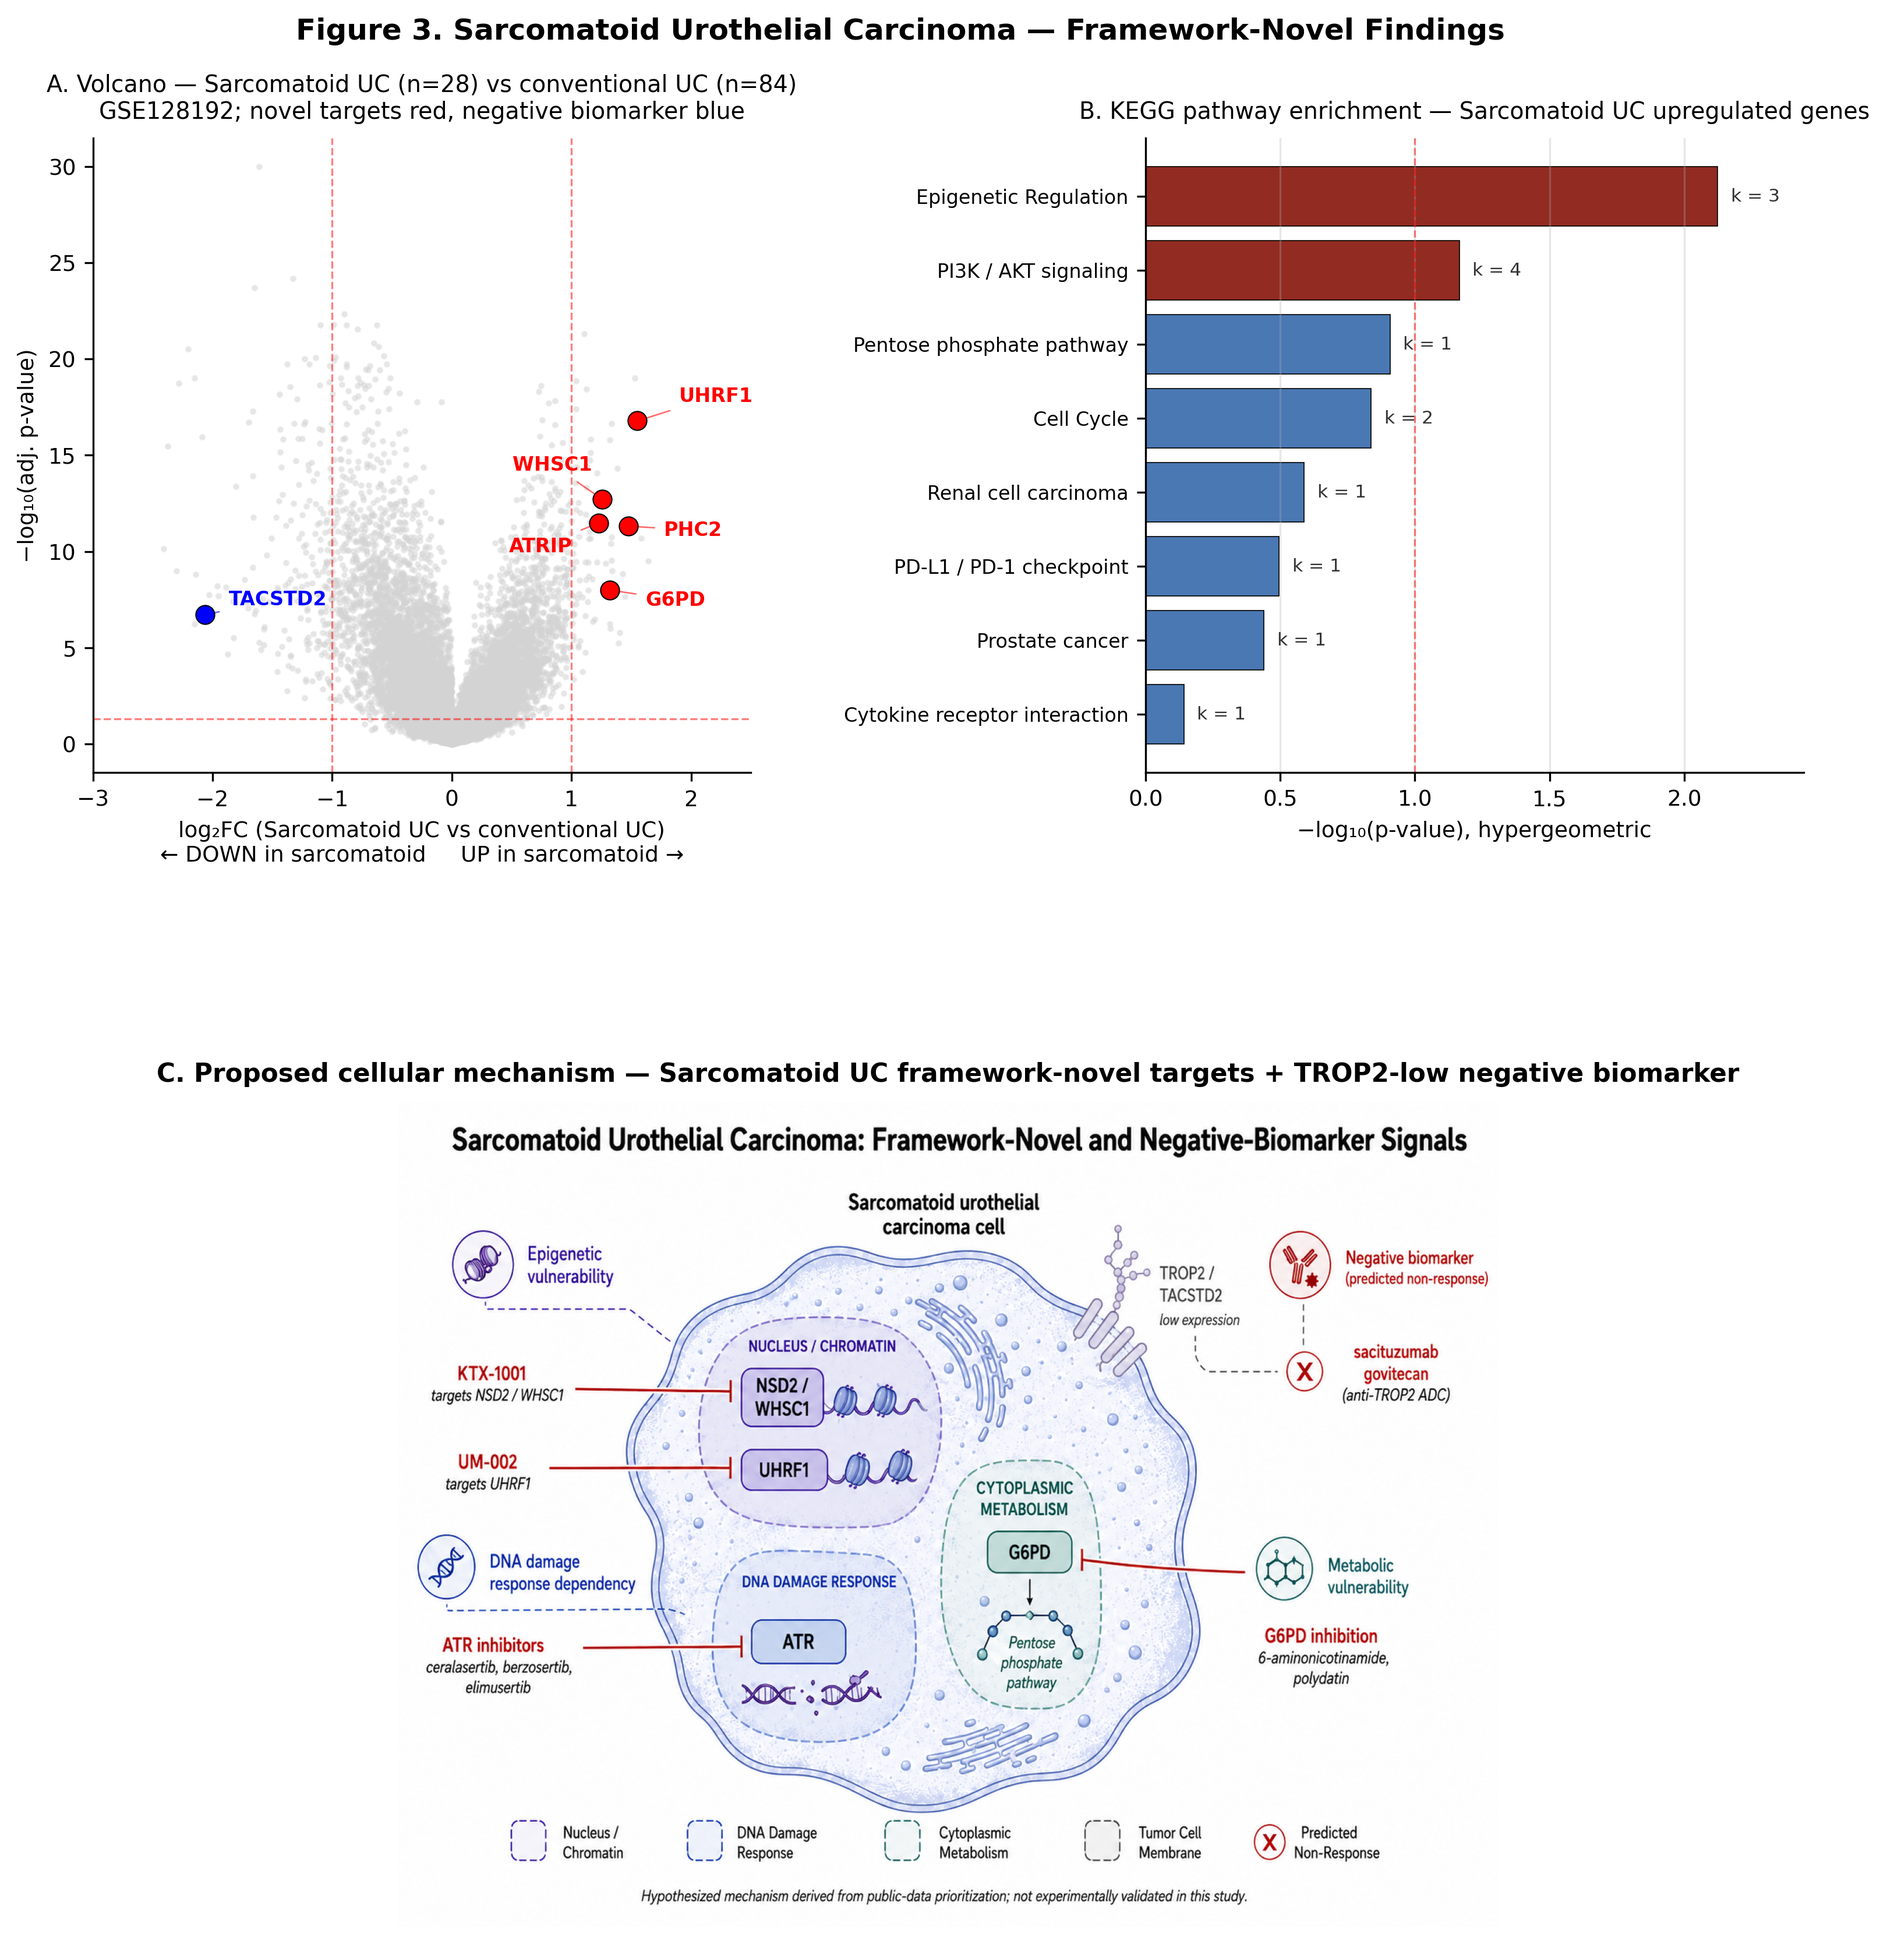
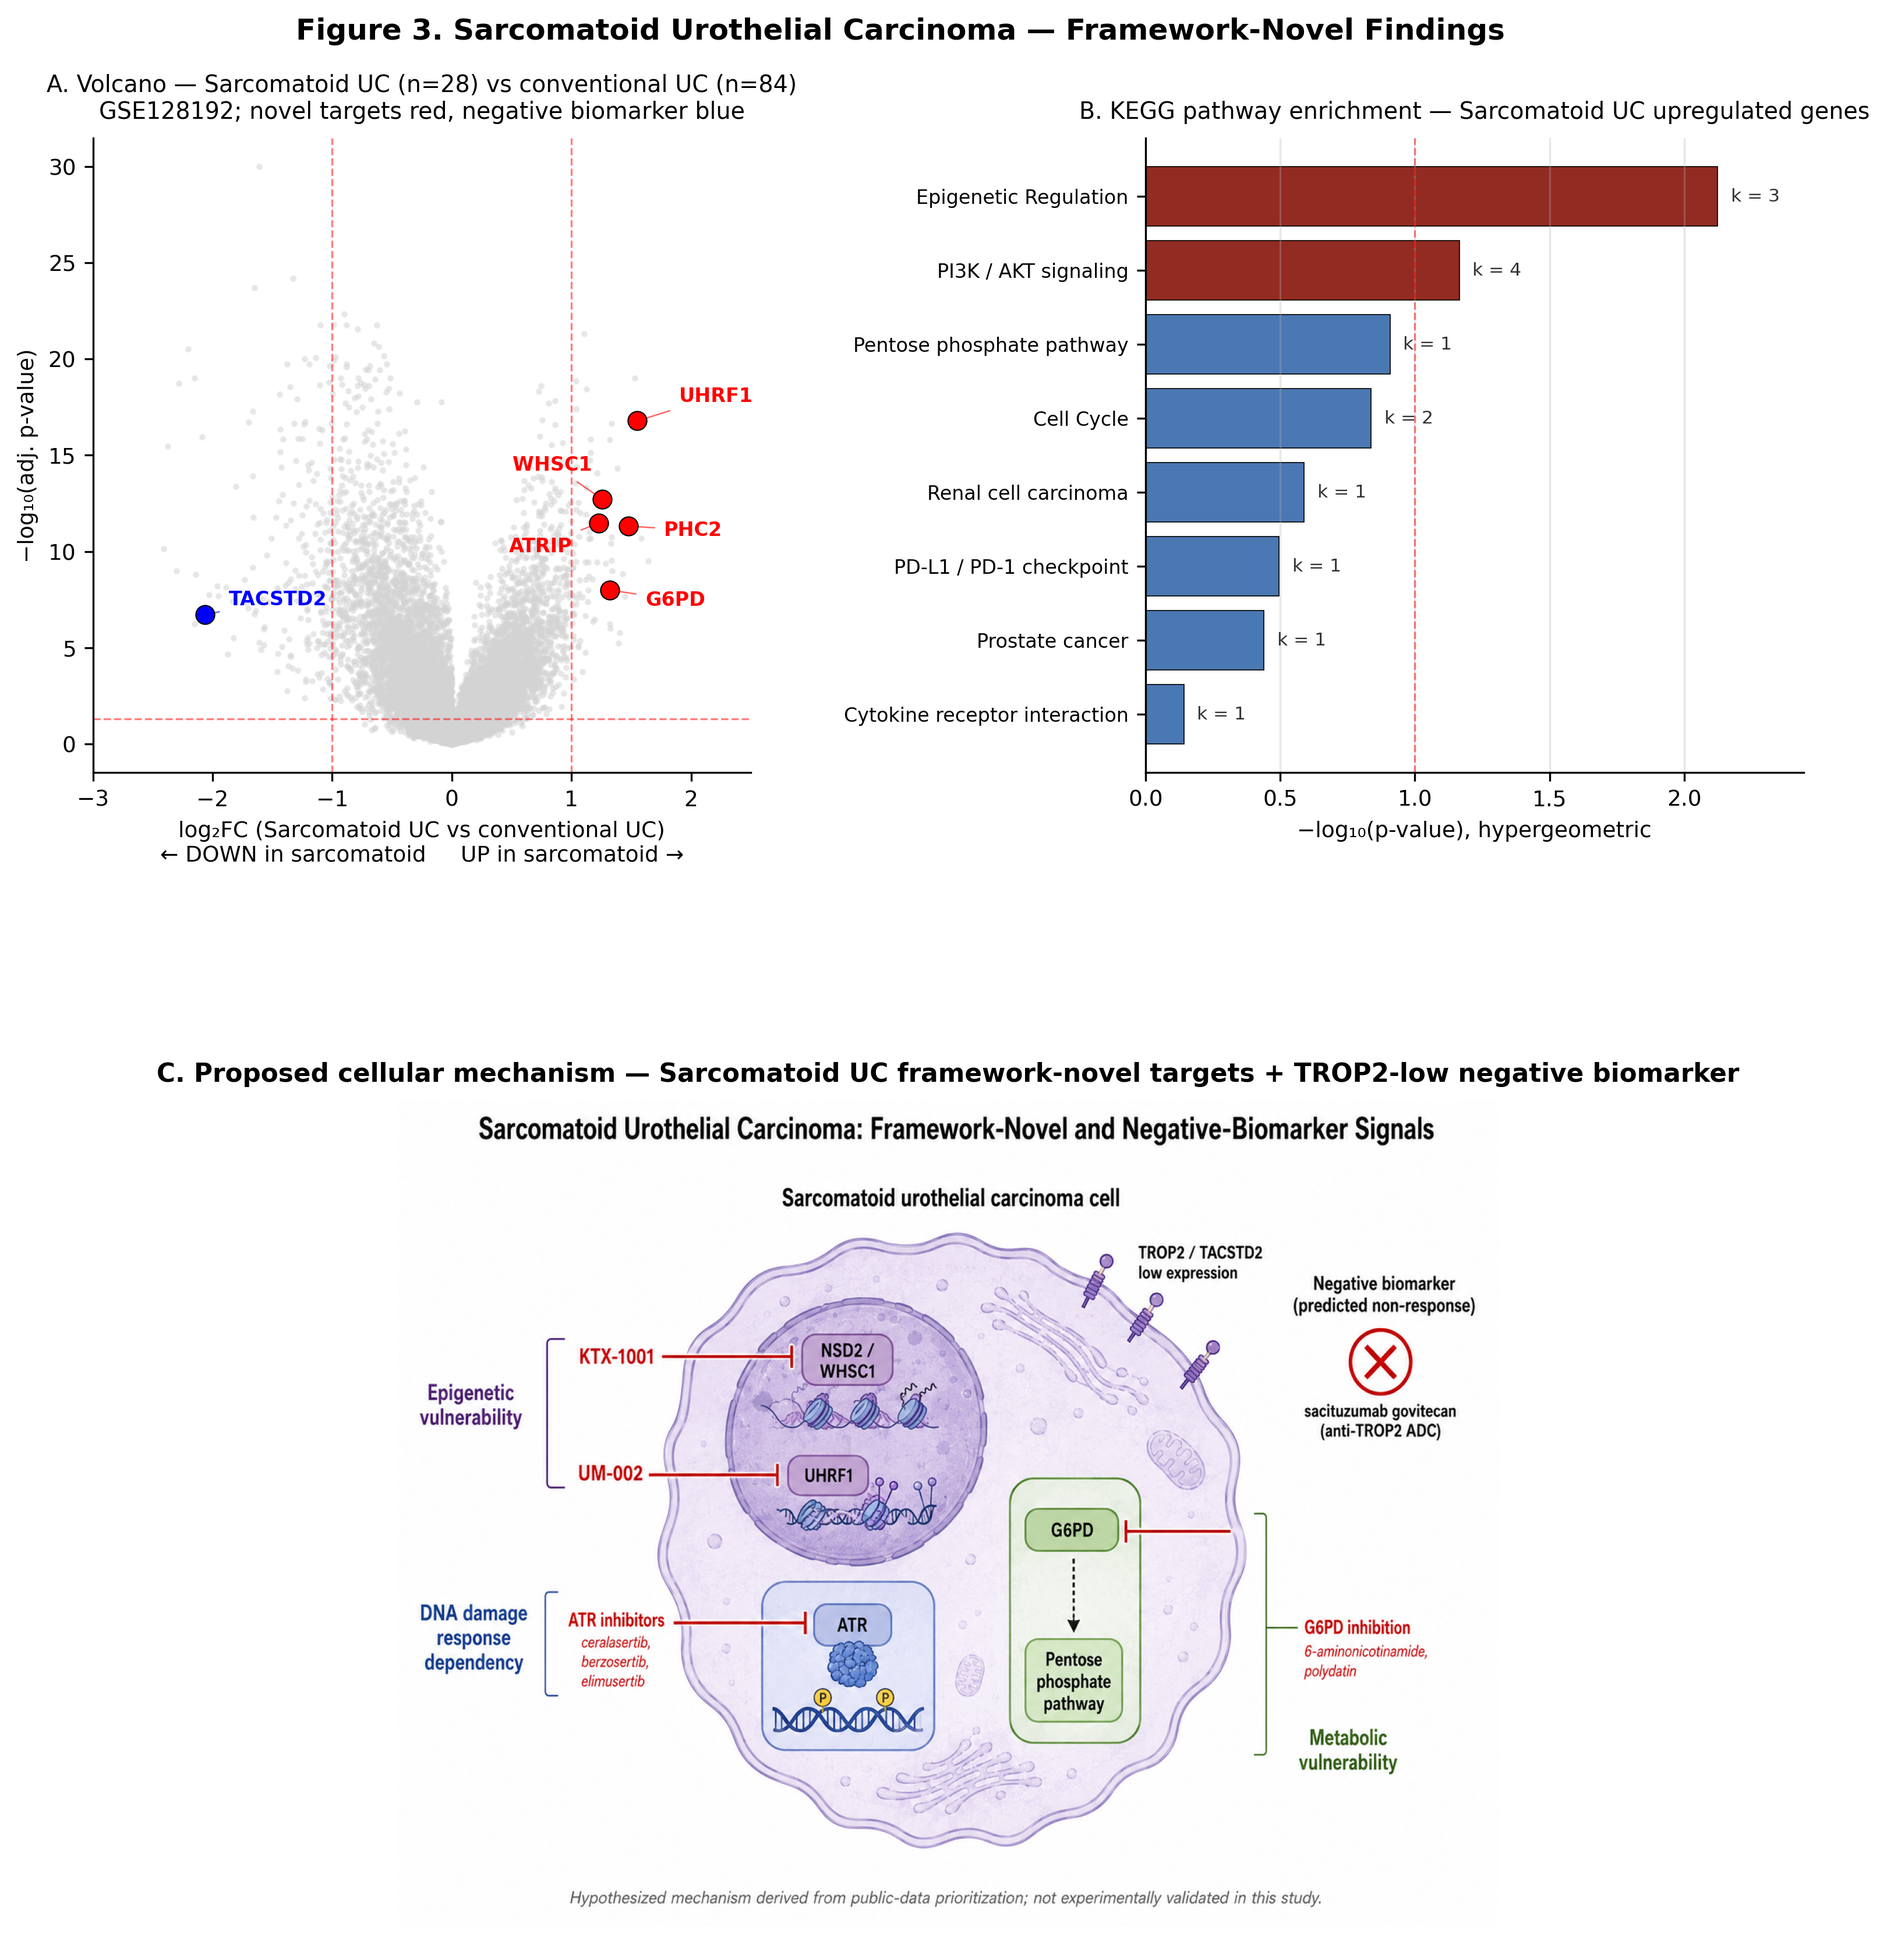
Flip Figure 2A volcano to disease-state orientation + refresh Panel C schematics
Figure 2A previously showed a SMARCB1-rescue-vs-null contrast, so the
chemokine-triad genes that drive the framework-novel CXCR1/CXCR2
antagonist hypothesis appeared as NEGATIVE log2FC values (counter to
intuition for a 'these are the targets we want to block' framing).
The volcano is now oriented as SMARCB1-null-vs-rescue (i.e., disease
state vs rescued control) so positive log2FC indicates upregulation in
the RMC state — consistent with every other context in the manuscript.

Implementation: log2FC values for Figure 2A are negated at plot time
from the deposited rescue-vs-null table, so the underlying deposited
data file (RMC_up_in_null_state.csv) is unchanged. The x-axis label,
plot title, x-limit, and label-offset signs are all updated to match.

Panels A/B narrative directionality is now uniform: 'positive log2FC =
higher in the disease state' applies to all transcriptomic contexts.

Panel C schematics for Figures 2/3/4 also refreshed with version-3
ChatGPT cellular cartoons. Verified scientifically accurate:
- Fig 2: all 5 CXCR antagonists present (reparixin, navarixin, AZD5069,
  danirixin, ladarixin); SMARCB1 marked as loss; CEACAM1 / CM24 placed
  on tumor cell
- Fig 3: NSD2 / UHRF1 / ATR / G6PD nuclear and cytoplasmic targets;
  TROP2 LOW negative biomarker with sacituzumab non-response indicator
- Fig 4: ASCL1+/CEACAM5 (spelling correct, prior 'CEACAMS' bug
  resolved); NEUROD1+/SSTR2 with 68Ga-DOTATATE + 177Lu-DOTATATE
  theranostic pair

Changed region(s): [[0.2182, 0.561, 0.7793, 0.9973]]

diff --git a/code/pipeline/12_generate_figures.py b/code/pipeline/12_generate_figures.py
@@ -222,26 +222,34 @@ axA = fig.add_subplot(gs[0, 0])
 axB = fig.add_subplot(gs[0, 1])
 axC = fig.add_subplot(gs[1, :])
 
+# Volcano oriented so that POSITIVE log₂FC = upregulated in the SMARCB1-null
+# (RMC) disease state. Achieved by negating the rescue-vs-null log₂FC
+# stored in the deposited table so the contrast displayed is
+# SMARCB1-null vs SMARCB1-rescue (i.e., disease state vs control).
+de_l2fc_disease = -de['l2fc_48h_RMC2C']
 neg_log_q = -np.log10(de['q_48h_RMC2C'].clip(lower=1e-300))
-axA.scatter(de['l2fc_48h_RMC2C'], neg_log_q, s=4, c='lightgrey', alpha=0.5)
+axA.scatter(de_l2fc_disease, neg_log_q, s=4, c='lightgrey', alpha=0.5)
 highlight = de[de['gene'].isin(top_genes)]
-axA.scatter(highlight['l2fc_48h_RMC2C'],
+axA.scatter(-highlight['l2fc_48h_RMC2C'],
             -np.log10(highlight['q_48h_RMC2C'].clip(lower=1e-300)),
             s=30, c='red', edgecolor='black', linewidth=0.5, zorder=5)
 for _, r in highlight.iterrows():
     g = r['gene']
-    x, y = r['l2fc_48h_RMC2C'], -np.log10(max(r['q_48h_RMC2C'], 1e-300))
+    x = -r['l2fc_48h_RMC2C']  # flip sign for disease-state orientation
+    y = -np.log10(max(r['q_48h_RMC2C'], 1e-300))
     if g in ['IL8', 'CXCL1', 'CXCL2', 'HBEGF', 'CEACAM1']:
-        axA.annotate(g, (x, y), xytext=(x - 0.3, y + 5), fontsize=7,
+        axA.annotate(g, (x, y), xytext=(x + 0.3, y + 5), fontsize=7,
                      fontweight='bold', color='darkred')
 axA.axvline(-1, color='red', linestyle='--', lw=0.8, alpha=0.5)
 axA.axvline(1, color='red', linestyle='--', lw=0.8, alpha=0.5)
 axA.axhline(-np.log10(0.05), color='red', linestyle='--', lw=0.8, alpha=0.5)
-axA.set_xlabel('log₂FC (SMARCB1-rescue vs NEG, RMC-2C cells)\n← UP in SMARCB1-null         DOWN in null →')
+axA.set_xlabel('log₂FC (SMARCB1-null vs SMARCB1-rescue, RMC-2C cells)\n'
+               '← DOWN in RMC         UP in RMC →')
 axA.set_ylabel('−log₁₀(adj. p-value)')
-axA.set_title('A. Volcano plot — RMC-2C cell line\nGSE180999 (n=9; SMARCB1-rescue vs NEG)',
+axA.set_title('A. Volcano plot — RMC-2C cell line\n'
+              'GSE180999 (n=9; SMARCB1-null vs rescue)',
               fontsize=9.5, pad=8)
-axA.set_xlim(-3, 9)
+axA.set_xlim(-9, 3)
 
 top_df = rmc_up.sort_values('mean_l2fc_48h')
 y_pos = np.arange(len(top_df))
